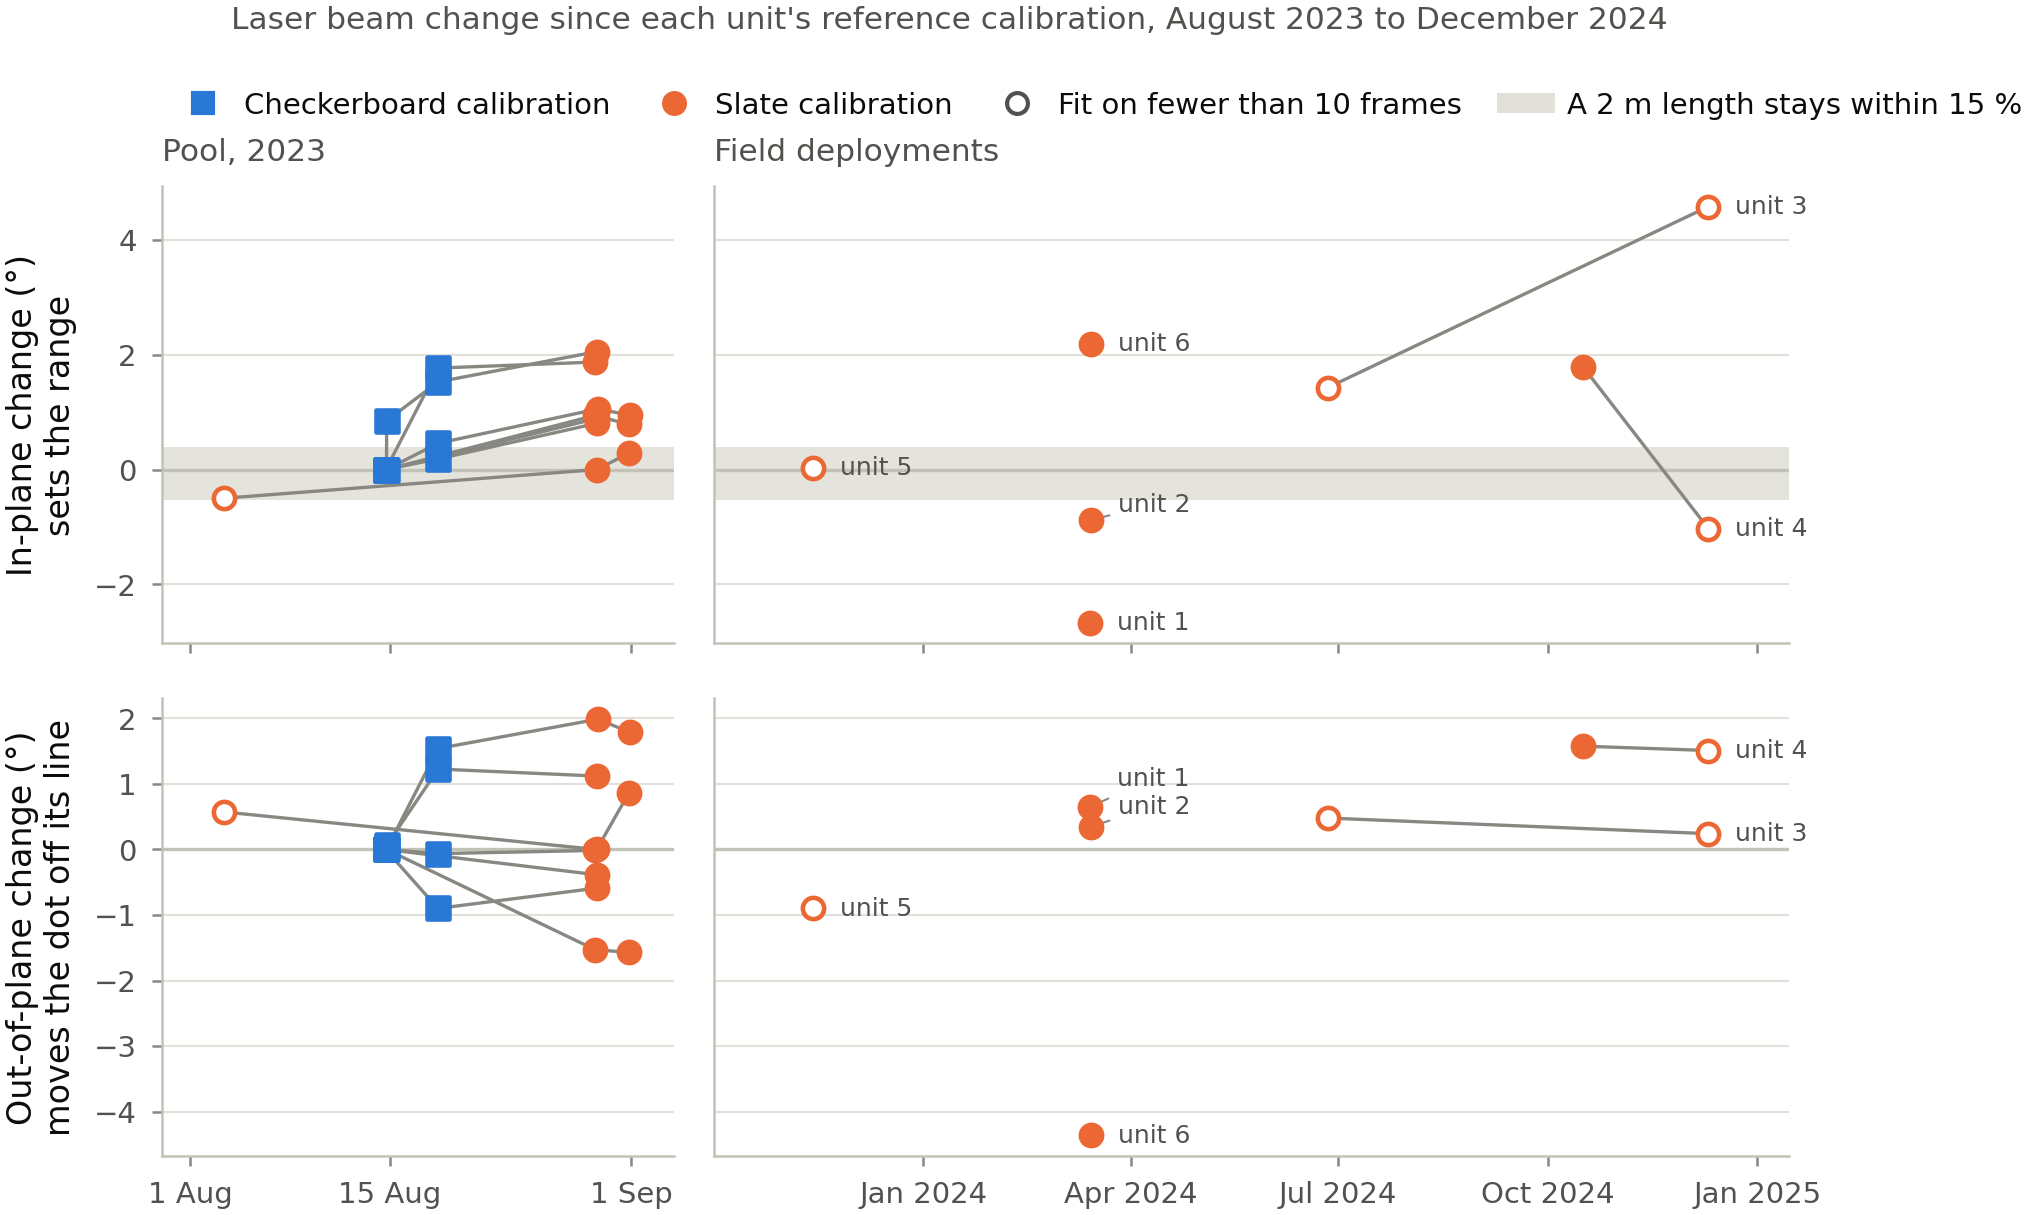
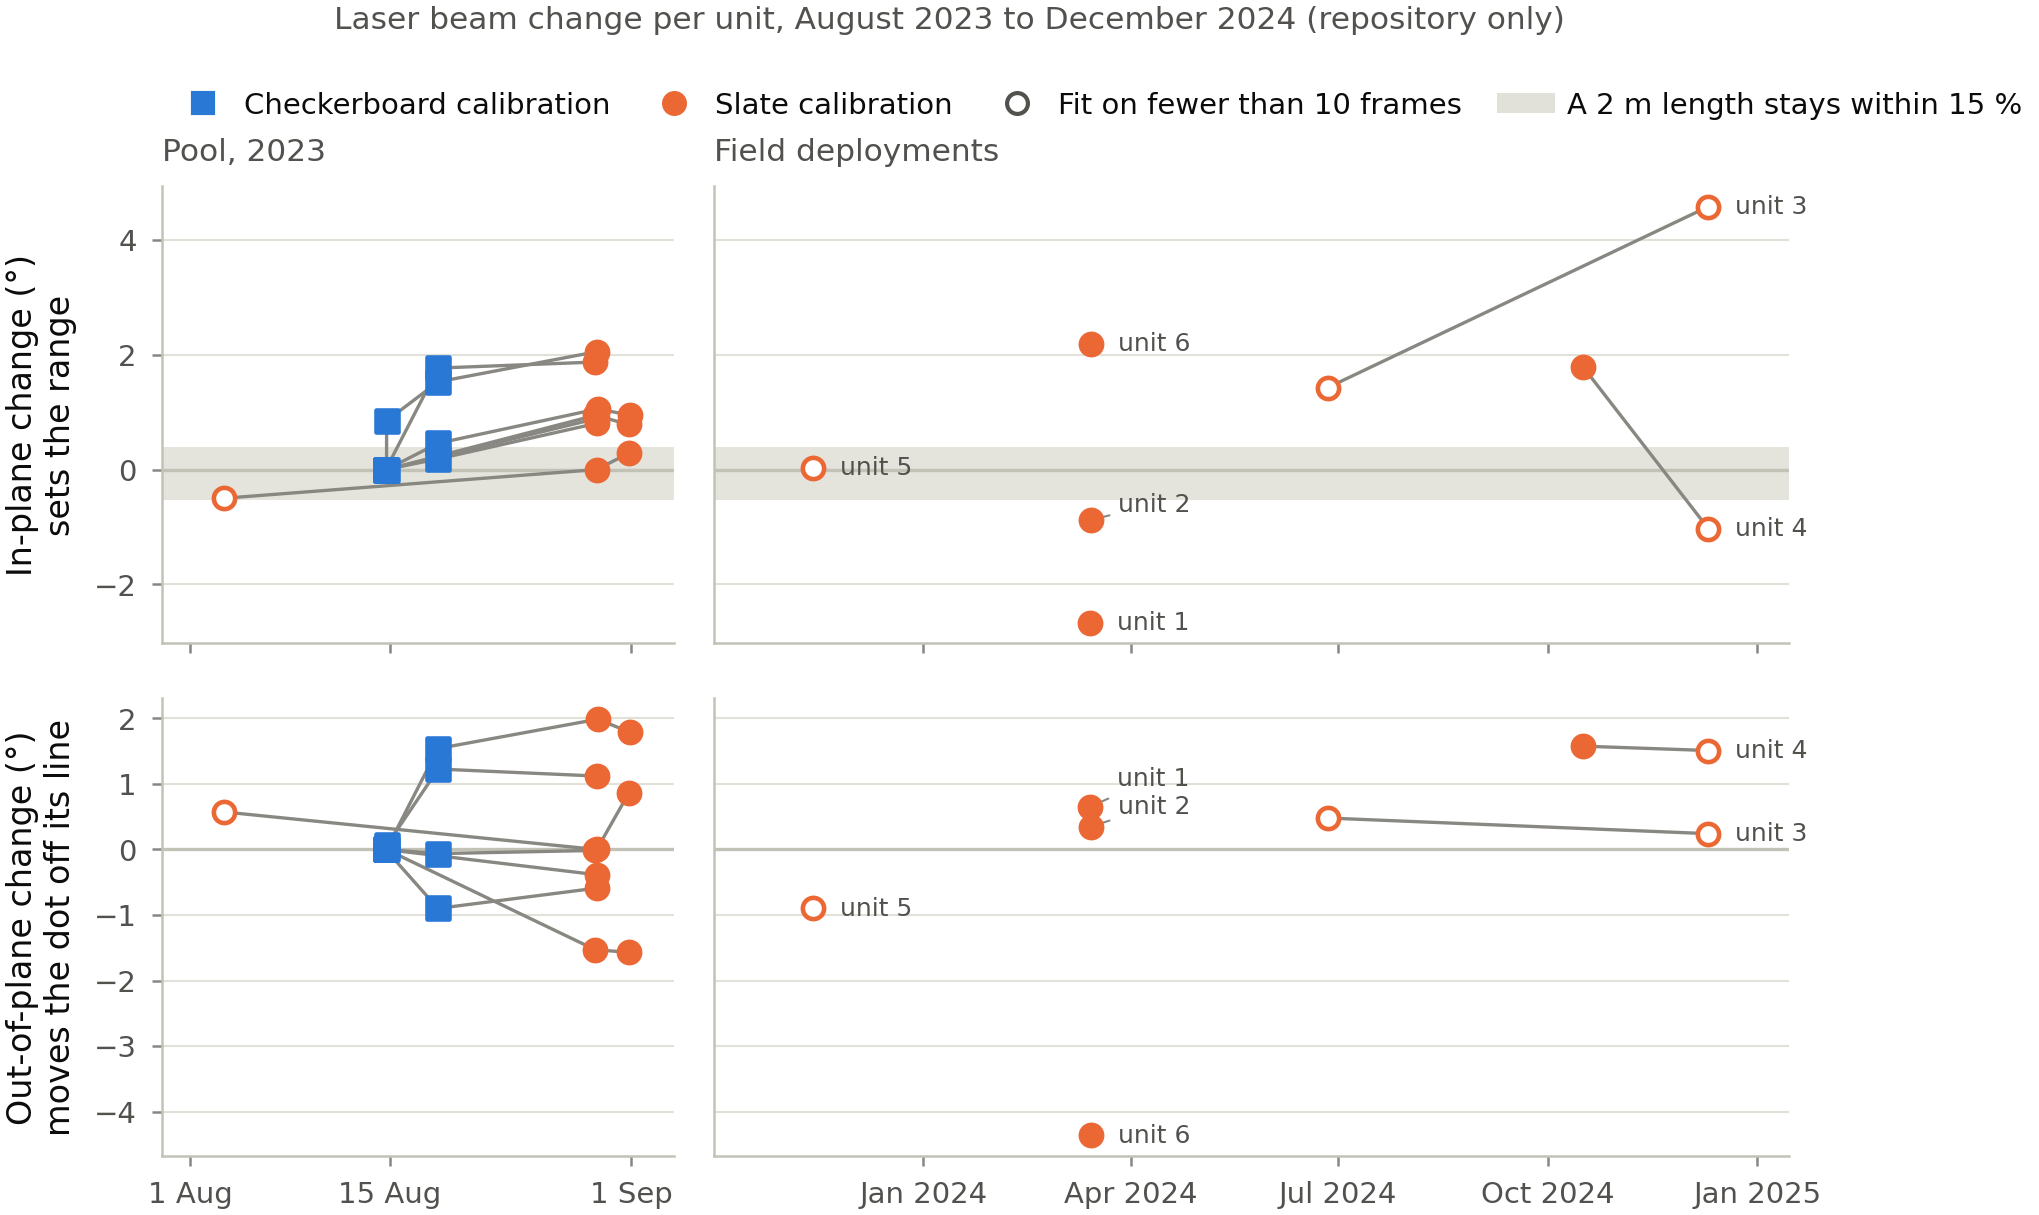
4.3: say more about Figure 4 -- the whole fleet, and the known-length check
The paper keeps Figure 4 as its drift figure; Figure 18 becomes a
repository-only figure and its findings go into 4.3's text around Figure 4.
Two paragraphs, placed after the within-session example:

- The fleet, not one unit. Over fits resting on >= 10 frames, the beam moves
  a median 0.65 deg between successive calibrations (18 pairs, seven units),
  against a 2 m band of -0.53 to +0.39 deg; 13 of 18 exceed it. Three of the
  four units checkable across the months to 2024 moved about 3 deg, in
  different directions -- one of them mostly out of plane.
- The check that this is the laser moving and not fit noise, on known
  lengths used only as validation: a session's own calibration against a
  neighbouring one raises median |error| from 3.2 % to 27.6 % (25 of 26
  worse) and from 5.5 % to 13.7 % (14 of 17).

That check now draws neighbours only from fits on >= 10 frames. Before, a
thin neighbour fitting badly could have been its own noise, which would not
show the laser moved. The comparison survives the restriction, and the
pinned numbers move from 3.24/26.20 (27/28) and 5.13/13.24 (15/18).

Changed region(s): [[0.1236, 0.0, 0.8342, 0.0305]]

diff --git a/fishsense_imwut/calibration.py b/fishsense_imwut/calibration.py
@@ -1195,7 +1195,8 @@ def laser_drift(fits, z: float = LASER_DRIFT_RANGE_M,
     return pd.DataFrame(out)
 
 
-def reuse_cost_on_known_lengths(rows, fits, which: str = "previous", excluded=(107,)):
+def reuse_cost_on_known_lengths(rows, fits, which: str = "previous", excluded=(107,),
+                                min_frames: int = LASER_DRIFT_MIN_FRAMES):
     """What a pool session's KNOWN lengths say about reusing another calibration.
 
     For each session with a neighbouring calibration of the same unit, every
@@ -1209,15 +1210,20 @@ def reuse_cost_on_known_lengths(rows, fits, which: str = "previous", excluded=(1
     its neighbour's. Known lengths are used here as VALIDATION -- nothing is
     fitted to them.
 
+    The neighbour is drawn only from fits resting on at least `min_frames`
+    frames. A thin neighbour fitting a session badly would prove nothing -- it
+    could be its own noise -- so it is skipped over, not compared against.
+
     Returns one row per session: its own and the neighbour's median |error|.
     """
     import pandas as pd
 
     keep = fits[~fits.dive_id.isin(excluded)].copy()
     keep["when"] = pd.to_datetime(keep.dive_datetime, utc=True)
+    by_dive = {int(r.dive_id): r for r in keep.itertuples()}
+    keep = keep[keep.n_frames >= min_frames]
     order = {int(c): list(g.sort_values("when").itertuples())
              for c, g in keep.groupby("camera_id")}
-    by_dive = {int(r.dive_id): r for r in keep.itertuples()}
     step = -1 if which == "previous" else 1
     sessions = {}
     for r in rows:
@@ -1226,8 +1232,11 @@ def reuse_cost_on_known_lengths(rows, fits, which: str = "previous", excluded=(1
     for (dive, cal_dive), frames in sorted(sessions.items()):
         if cal_dive not in by_dive:
             continue
-        seq = order[int(by_dive[cal_dive].camera_id)]
-        i = [int(s.dive_id) for s in seq].index(cal_dive) + step
+        seq = order.get(int(by_dive[cal_dive].camera_id), [])
+        ids = [int(s.dive_id) for s in seq]
+        if cal_dive not in ids:
+            continue
+        i = ids.index(cal_dive) + step
         if not 0 <= i < len(seq):
             continue
         other = _beam(seq[i])

diff --git a/tests/test_calibration.py b/tests/test_calibration.py
@@ -915,10 +915,21 @@ def test_calibration_differences_are_the_laser_moving_not_fit_noise():
     data = Path(__file__).resolve().parents[1] / "fish_model_analysis" / "data"
     rows = [r for r in cal.load_rows(data / "corpus.csv")
             if int(r["dive_id"]) not in cal.NON_POOL_DIVES and r["model"] not in cal.HELD_OUT_MODELS]
-    for which, own, other, better, n in (("previous", 5.13, 13.24, 15, 18),
-                                         ("next", 3.24, 26.20, 27, 28)):
+    for which, own, other, better, n in (("previous", 5.47, 13.73, 14, 17),
+                                         ("next", 3.24, 27.61, 25, 26)):
         r = cal.reuse_cost_on_known_lengths(rows, _fits(), which)
         assert len(r) == n
         assert r.own_abs_pct.median() == pytest.approx(own, abs=0.05)
         assert r.other_abs_pct.median() == pytest.approx(other, abs=0.05)
         assert int((r.own_abs_pct < r.other_abs_pct).sum()) == better
+
+
+def test_section_4_3s_fleet_drift_numbers():
+    """The figures section 4.3 quotes, over fits resting on >= 10 frames only."""
+    d = cal.laser_drift(_fits()).sort_values(["camera_id", "when"])
+    prev_ok = d.groupby("camera_id").well_conditioned.shift(1)
+    both = d[d.well_conditioned & (prev_ok == True)].dropna(subset=["step_in_plane_deg"])  # noqa: E712
+    assert len(both) == 18
+    assert both.step_in_plane_deg.abs().median() == pytest.approx(0.65, abs=0.01)
+    lo, hi = cal.pointing_budget_deg(float(_fits().baseline_m.median()))
+    assert int(((both.step_in_plane_deg < lo) | (both.step_in_plane_deg > hi)).sum()) == 13

diff --git a/fishsense_imwut/pubfig.py b/fishsense_imwut/pubfig.py
@@ -692,7 +692,7 @@ FIGURE_TITLES = {
     "fig17_checkerboard_vs_slate":
         "Laser baseline per unit, by calibration object and mount epoch",
     "fig18_laser_drift":
-        "Laser beam change since each unit's reference calibration, August 2023 to December 2024",
+        "Laser beam change per unit, August 2023 to December 2024 (repository only)",
     "figD2_p90_budget":
         "Reported length error against frames per fish, with the error budget marked",
 }

diff --git a/PAPER.md b/PAPER.md
@@ -471,6 +471,30 @@ minutes apart, differ by 0.82°; the target frames shot between them agree with 
 fit, while frames from 25 minutes before agree with neither, putting the mount in a third
 state.
 
+Figure 4 is one unit over seventeen days, and the rest of the fleet behaves the same way,
+over longer spans too. Every stored calibration keeps its fitted beam, so successive
+calibrations of one unit can be compared directly. Taking only fits that rest on at least
+ten frames, and folding the change in baseline into the in-plane angle at 2 m, the beam
+moves by a median **0.65°** between successive calibrations of a unit (18 pairs over seven
+units; 0.57° within the pool month alone). A 2 m length stays inside the 15 % budget only
+while that swing stays between −0.53° and +0.39°, and 13 of the 18 swings exceed it. The
+months between the pool corpus and the 2024 deployments moved three of the four units that
+can be checked by about 3° — units 1 and 2 almost entirely in plane, unit 6 mostly out of
+it — and the fourth by 0.9° over fourteen months. The directions differ from unit to unit,
+which argues against a common cause such as the water or the housing, and is consistent
+with handling and with the unrecorded mount replacements above.
+
+That stored calibrations differ because the laser moved, rather than because each fit is
+noisy, can be checked against the known lengths without fitting anything to them.
+Re-measure each pool session with a neighbouring calibration of the same unit in place of
+its own. If the calibrations were noisy estimates of one unchanged beam, a session's own
+would fit its targets no better than its neighbour's. It fits them far better: against the
+unit's next calibration the median |error| rises from **3.2 % to 27.6 %**, worse in 25 of 26
+sessions, and against the previous one from **5.5 % to 13.7 %**, worse in 14 of 17. Only
+neighbours resting on at least ten frames are used, so a thin fit cannot be the reason a
+neighbour does badly. A calibration describes the mount at the moment it was shot and for
+no longer, which is the whole case for calibrating at every dive.
+
 One field deployment shows the same thing without needing a second calibration to compare
 against. The dive holds two bursts of calibration frames 52 minutes apart, and 71 laser
 dots on its measurement frames. Those 71 define a line to 0.64 px; the first burst's dots
@@ -983,29 +1007,14 @@ caught any of this in the field.
   **Two fits are not on the axis**, and neither is in the estimate — dive 107, the 12.95 cm
   lever-arm failure this section dissects, and dive 436, a field dive that reaches the pool
   exports only as a borrow.
-- **Figure 18** *(§4.3, proposed)* — How far each unit's laser moved between calibrations,
-  August 2023 to December 2024: every accepted calibration, placed against that unit's
-  earliest calibration resting on at least ten frames. **Two rows because the beam moves two
-  ways.** In plane (top) is the swing that slides the dot along the line the calibration
-  expects it on, which sets the range; the baseline change is folded in at 2 m, and the grey
-  band is the swing that keeps a 2 m length within the 15 % budget (−0.53° to +0.39°,
-  asymmetric because range goes as the reciprocal of the dot's angle). Out of plane
-  (bottom) moves the dot off that line. The median step between successive calibrations is
-  0.69° in plane — larger than the band — and one rig moved 0.85° in eight minutes (dives
-  489 → 490). **That this is the laser moving and not fit noise is checked against known
-  lengths:** re-measuring each pool session with a neighbouring calibration of the same unit
-  instead of its own raises the median |error| from 3.2 % to 26.2 % (27 of 28 sessions
-  worse) against the next calibration and from 5.1 % to 13.2 % (15 of 18) against the
-  previous one. If the calibrations were noisy estimates of one unchanged beam, a session's
-  own would fit no better than its neighbour's. **Read the colours before the August
-  swing.** Every unit moves positive in plane between 14–18 August (checkerboard, blue) and
-  29–31 August (slate, orange), with a shipment between; the object, the fortnight and the
-  shipment are collinear, as in Figure 17, and the figure cannot say which moved the beam.
-  **Hollow points rest on two or three frames** and should be read as indicative only; they
-  include every field calibration of units 3 and 5 and unit 4's last, and the 4.6° of unit 3
-  in December 2024 is one of them. Unit 10 was never calibrated in the field, so it appears
-  only in the pool panel. The case the figure makes is the one the per-dive calibration
-  exists for: no calibration of this rig can be carried forward to another dive.
+- **Figure 18** *(repository only — the paper keeps Figure 4 and carries this in §4.3's
+  text)* — Every accepted calibration of every unit, August 2023 to December 2024, against
+  that unit's earliest calibration resting on at least ten frames: in-plane change (top, with
+  the 2 m budget band) and out-of-plane change (bottom). Colour is the calibration object,
+  because every unit swings positive exactly when the object changed and the cameras
+  shipped; hollow points rest on two or three frames. It is the fleet-wide version of
+  Figure 4, and the source of §4.3's 0.65° median step and its 3° change across the months
+  to the 2024 deployments.
 - **Figure 16** *(§4.2)* — How many frames the $p_{90}$ *estimate* needs to settle.
   Rarefaction: draw $n$ frames without replacement from each of the fifteen cohort cells
   holding ≥ 30, take the $p_{90}$ of percent length error, and compare it with that cell's
